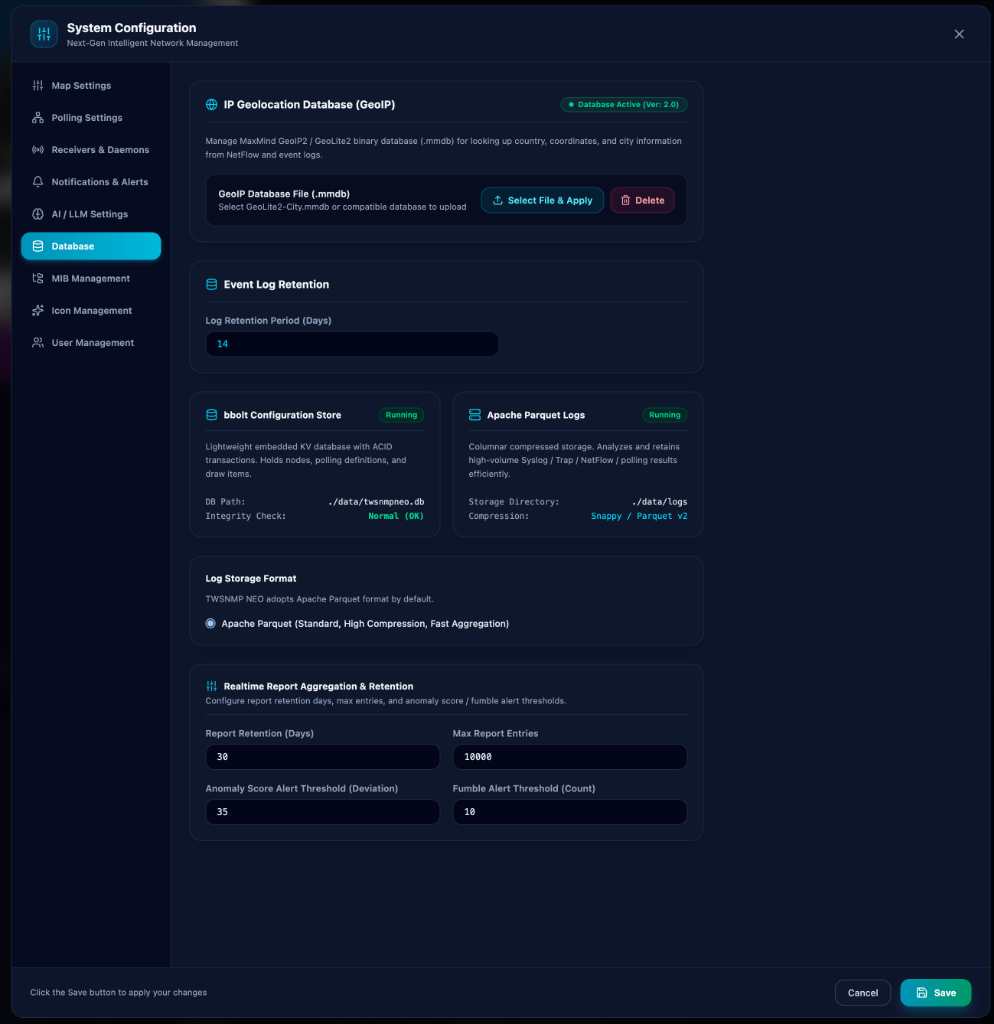
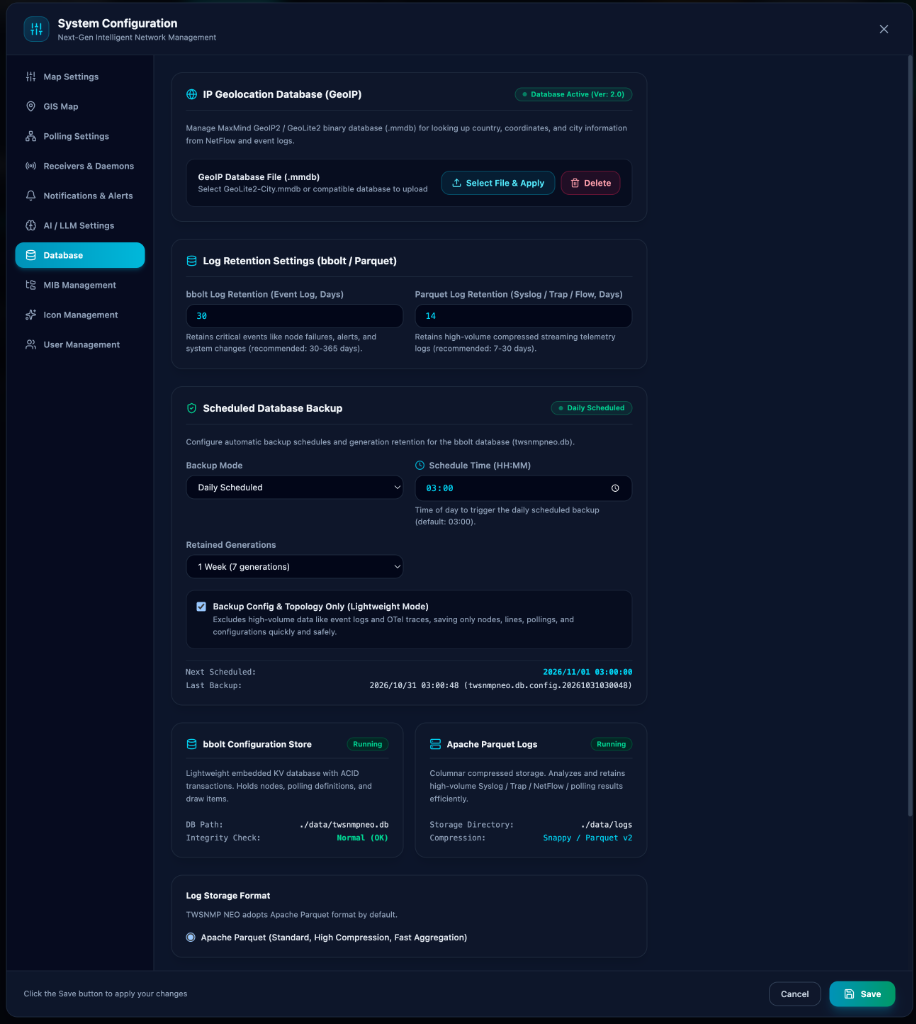
chore(release): bump version to v0.5.0 and update documentation for database backup

diff --git a/frontend/src/lib/views/SystemView.svelte b/frontend/src/lib/views/SystemView.svelte
@@ -534,7 +534,7 @@
           </div>
           <div class="my-2 flex items-baseline gap-2">
             <span class="text-xl font-bold font-mono text-slate-900 dark:text-slate-100">
-              {formatVersion(sysInfo?.version) || "v0.4.0"}
+              {formatVersion(sysInfo?.version) || "v0.5.0"}
             </span>
           </div>
           <div class="text-[11px] text-slate-500 dark:text-slate-400 font-mono truncate flex items-center justify-between">

diff --git a/frontend/src/lib/components/SystemUpdateModal.svelte b/frontend/src/lib/components/SystemUpdateModal.svelte
@@ -219,7 +219,7 @@
               {$_("system.currentVersion")}
             </span>
             <span class="text-lg font-bold font-mono text-slate-800 dark:text-slate-200 mt-0.5">
-              {formatVersion(updateInfo.current_version) || "v0.4.0"}
+              {formatVersion(updateInfo.current_version) || "v0.5.0"}
             </span>
           </div>
 

diff --git a/backend/cmd/twsnmpneo/main.go b/backend/cmd/twsnmpneo/main.go
@@ -35,7 +35,7 @@ import (
 )
 
 var (
-	version = "v0.4.0"
+	version = "v0.5.0"
 	commit  = ""
 	date    = "unknown"
 )

diff --git a/docs/index.md b/docs/index.md
@@ -25,6 +25,7 @@ It consolidates the container portability of **TWSNMP FC** and the advanced visu
 - **GIS Geographic Map (MapLibre)**: Plot network nodes across geographic tile layers (OpenStreetMap, GSI, CARTO, etc.) with real-time health status coloring and interactive positioning.
 - **TWAgent & AI Security Telemetry (`twagentneo`)**: Zero-config cross-platform agent ingestion, live host telemetry, Sigma rule detection with local LLM verification, File Integrity Monitoring (FIM), and CIS Benchmark Security Configuration Assessment (SCA).
 - **Apache Parquet Columnar Storage**: Millions of Syslog, TRAP, NetFlow, and sFlow records stored with high compression ratios and sub-second query performance.
+- **Enterprise Database Backup & Disaster Recovery**: Transaction-safe live snapshots via `bbolt.Tx.CopyFile`, automated recurring schedules, generation rotation, web-based archive management, and offline CLI disaster recovery & compaction.
 - **Native AI & Built-in MCP Server**: Integrated multi-LLM client (`tensai`) and Model Context Protocol (MCP) server for instant root cause diagnosis and natural language polling creation.
 - **Self-Contained Private PKI**: Issue, renew, and automate TLS certificates via ACME and SCEP directly within your network manager.
 
@@ -411,6 +412,9 @@ Log and packet receiving daemons (Syslog UDP/TCP:514, SNMP TRAP UDP:162, NetFlow
 
 ![](./images/en/settings_receivers.png)
 
+### Independent Log Retention Policy
+Database event logs (bbolt) and high-volume streaming logs (Parquet) feature independent retention periods. A background cleaner runs every 10 minutes to automatically purge expired bbolt event records and rotate Parquet files based on both age and disk quotas.
+
 ### AI Root Cause Diagnosis
 When critical events occur, one-click AI analysis summarizes correlated preceding and succeeding logs to identify the root cause and provide clear remediation steps in Markdown.
 
@@ -492,12 +496,40 @@ Receive instant alerts and periodic reports across supported channels:
 
 ![](./images/en/settings_notify.png)
 
-### Backup & Automated Log Retention
+### Database Settings & Scheduled Backups
 
 ![](./images/en/settings_backup.png)
 
-- **Map Export**: Export topology, nodes, and polling configurations as JSON or ZIP archives.
-- **Parquet Auto-Rotation**: Automatically prune historical records based on disk usage thresholds or retention days.
+- **Independent Log Retention**:
+  - **Event Log Retention (bbolt, Days)**: Historical retention for system and polling state change alerts (default: 30 days).
+  - **Streaming Log Retention (Parquet, Days)**: Retention duration for large streaming logs such as Syslog, SNMP TRAP, and Flow records (default: 14 days).
+  - **Max Parquet Storage (GB)**: Configurable disk storage cap for Parquet columnar logs.
+- **Automated Database Backups**:
+  - **Schedule Mode**: Choose from Disabled, Daily (`daily`), Once (`once`), or Run Once & Daily (`once_daily`).
+  - **Execution Time**: Configurable scheduled runtime (HH:MM format, e.g. `03:00`).
+  - **Retained Generations**: Automatically rotates and keeps between 1 and 30 generations.
+  - **Config-Only Mode (`ConfigOnly`)**: Saves a lightweight, instant snapshot containing map topology, nodes, lines, and polling definitions while omitting voluminous event logs and OTel traces.
+- **Topology Export & Reset**: Export map data and polling configurations as JSON / ZIP archives or reset the database.
+
+### Backup Management & Disaster Recovery
+
+Open the dedicated Backup Manager modal directly from the System Status tab to inspect and manage all database archives.
+
+![](./images/en/backup_manager.png)
+
+- **Web UI Management**:
+  - Inspect backup archives with file names, sizes, and creation timestamps.
+  - Trigger on-demand backups instantly ("Full Backup" or "Config-Only Backup").
+  - Download backup archives directly in the browser and remove old backups.
+- **Offline CLI Disaster Recovery & Maintenance**:
+  - Offline Restoration (`-restore`): Restores the database from a backup file with automatic pre-restore safety archiving of the active DB.
+    ```bash
+    twsnmpneo -datastore ./data -restore ./backups/twsnmpneo_backup_20261031_030000.db
+    ```
+  - Database Compaction (`-compact`): Reclaims unused database space and resolves bbolt fragmentation.
+    ```bash
+    twsnmpneo -datastore ./data -compact ./data/twsnmpneo_compacted.db
+    ```
 
 ### Icon Management & Custom Assets
 

diff --git a/README_ja.md b/README_ja.md
@@ -40,7 +40,8 @@
 
 ### 2. Apache Parquet による大容量・超高速ログストレージ
 - **Syslog、SNMP TRAP、NetFlow v5/v9/IPFIX、sFlow v5、ARP Watch、OpenTelemetry、MQTT、ポーリング時系列ログ**を列指向圧縮フォーマット（Parquet）で効率的に保存。
-- 1万件単位の高速クエリ、複合条件フィルタ、容量・日数指定による安全な自動ローテーション。
+- 1万件単位の高速クエリ、複合条件フィルタ、および容量・日数指定による安全な自動ローテーション。
+- **独立したログ保持期間ポリシー**: bbolt（イベントログ）とParquet（受信ログ）の保存日数を個別に設定し、バックグラウンドで安全に自動パージ。
 
 ### 3. ネイティブ AI & 内蔵 MCP (Model Context Protocol) サーバー
 - **Streamable HTTP MCP サーバー (`/api/mcp`)**: 22種以上の運用・診断ツールと19種のプロンプトテンプレートをAIエージェント（Cursor, Claude Desktop, Antigravity など）に提供。
@@ -65,7 +66,8 @@
 - **オンデマンドレポート高速化**: カテゴリ別遅延読み込み（Lazy-load）とParquetクエリ時の時間範囲プルーニングによる高速レスポンス
 - **内蔵 PKI & TLS 管理**: Root CA構築、ブラウザ内CSR作成、証明書発行、CRL / OCSP / SCEP / ACME サーバー、および自身の HTTPS 運用を自動化する ACME 自動更新クライアント（lego 統合）
 - **診断ツール**: リアルタイムPing (ICMP/UDP)、Smokeping、MTR（AI解説付き）、MIBブラウザ / MIBツリー、gNMI、Wake-on-LAN (WOL)
-- **システム管理**: システムステータス（デーモン稼働状態、DB容量予測、ワンクリックセルフアップデート）とリソースモニターの2タブ構成
+- **データベース定期バックアップ & 復元管理**: トランザクションセーフな `bbolt.Tx.CopyFile` によるスナップショットバックアップ（フル / 設定のみの軽量モード）、スケジュール定期実行（毎日/1回のみ/即時実行後毎日）と自動世代管理（1〜30世代）。Web UIでのバックアップ管理モーダル（一覧・即時作成・ダウンロード・削除）およびCLI（`-backup`, `-restore`, `-compact`）による確実な運用・リストア。
+- **システム管理**: システムステータス（デーモン稼働状態、DB容量予測、バックアップ管理、ワンクリックセルフアップデート）とリソースモニターの2タブ構成
 
 ---
 
@@ -144,6 +146,23 @@ twsnmpneo update -check
 twsnmpneo update -y
 ```
 ※ Web UI 管理画面からも、新バージョン通知バナーからワンクリックで更新適用が可能です。
+
+---
+
+### データベースバックアップ & リストア・メンテナンス (CLI)
+
+TWSNMP NEO は稼働中の安全なスナップショットバックアップやオフラインリストア、データベース圧縮に対応しています：
+
+```bash
+# 稼働中のデータベースを安全にバックアップ（指定ディレクトリへスナップショット作成）
+twsnmpneo -datastore ./data -backup ./backups
+
+# バックアップアーカイブからの安全なオフライン復元（復元前の既存DBを自動退避）
+twsnmpneo -datastore ./data -restore ./backups/twsnmpneo_backup_20261031_030000.db
+
+# bbolt データベースのオフライン領域圧縮（フラグメンテーション解消）
+twsnmpneo -datastore ./data -compact ./data/twsnmpneo_compacted.db
+```
 
 ---
 

diff --git a/README.md b/README.md
@@ -40,6 +40,7 @@
 ### 2. Columnar Big Data Storage (Apache Parquet)
 - High-speed compressed storage for **Syslog, SNMP TRAP, NetFlow v5/v9/IPFIX, sFlow v5, ARP Watch, OpenTelemetry, MQTT**, and polling logs.
 - Lightning-fast multi-criteria filtering, pagination, and automated retention/rotation policies.
+- **Independent Log Retention**: Configurable separate retention durations for bbolt event logs and Parquet streaming logs with automated background purging.
 
 ### 3. Native AI & Built-in MCP Server
 - **Streamable HTTP MCP Server (`/api/mcp`)**: Native Model Context Protocol server exposing 22+ diagnostic/management tools and 19 prompt templates to AI agents (Cursor, Claude Desktop, Antigravity, etc.).
@@ -64,7 +65,8 @@
 - **Optimized Analytics Suite**: Category-based lazy loading and query-time Parquet file pruning for responsive large-scale analytics.
 - **Built-in PKI & TLS Management**: Root CA management, web-based CSR creation, certificate issuance, CRL / OCSP / SCEP / ACME servers, and automated TLS certificate renewal via ACME client (lego)
 - **Diagnostic Tools**: Interactive Ping (ICMP/UDP), Smokeping, MTR with AI analysis, MIB Browser / Tree, gNMI, and Wake-on-LAN (WOL)
-- **System Administration**: Reorganized two-tab management view (System Status & Resource Monitor) with live update notifications and one-click in-place upgrades
+- **Database Backup & Disaster Recovery**: Transaction-safe live snapshots via `bbolt.Tx.CopyFile` (full and lightweight config-only modes), automated recurring schedule (daily/once/once_daily) with generation rotation (1–30 generations). Dedicated Backup Manager modal in the Web UI, along with offline CLI options (`-backup`, `-restore`, `-compact`).
+- **System Administration**: Reorganized two-tab management view (System Status & Resource Monitor) with live update notifications, backup management modal, and one-click in-place upgrades
 
 ---
 
@@ -161,6 +163,23 @@ twsnmpneo update -check
 
 # Apply update and automatically restart
 twsnmpneo update -y
+```
+
+---
+
+### Database Backup, Restore & Maintenance (CLI)
+
+TWSNMP NEO provides transaction-safe live snapshots, offline disaster recovery, and database compaction:
+
+```bash
+# Safely snapshot running database to a target backup directory
+twsnmpneo -datastore ./data -backup ./backups
+
+# Safely restore from an offline backup archive (automatically moves previous DB to a timestamped backup)
+twsnmpneo -datastore ./data -restore ./backups/twsnmpneo_backup_20261031_030000.db
+
+# Offline database compaction to reclaim disk space and reduce fragmentation
+twsnmpneo -datastore ./data -compact ./data/twsnmpneo_compacted.db
 ```
 
 ---
